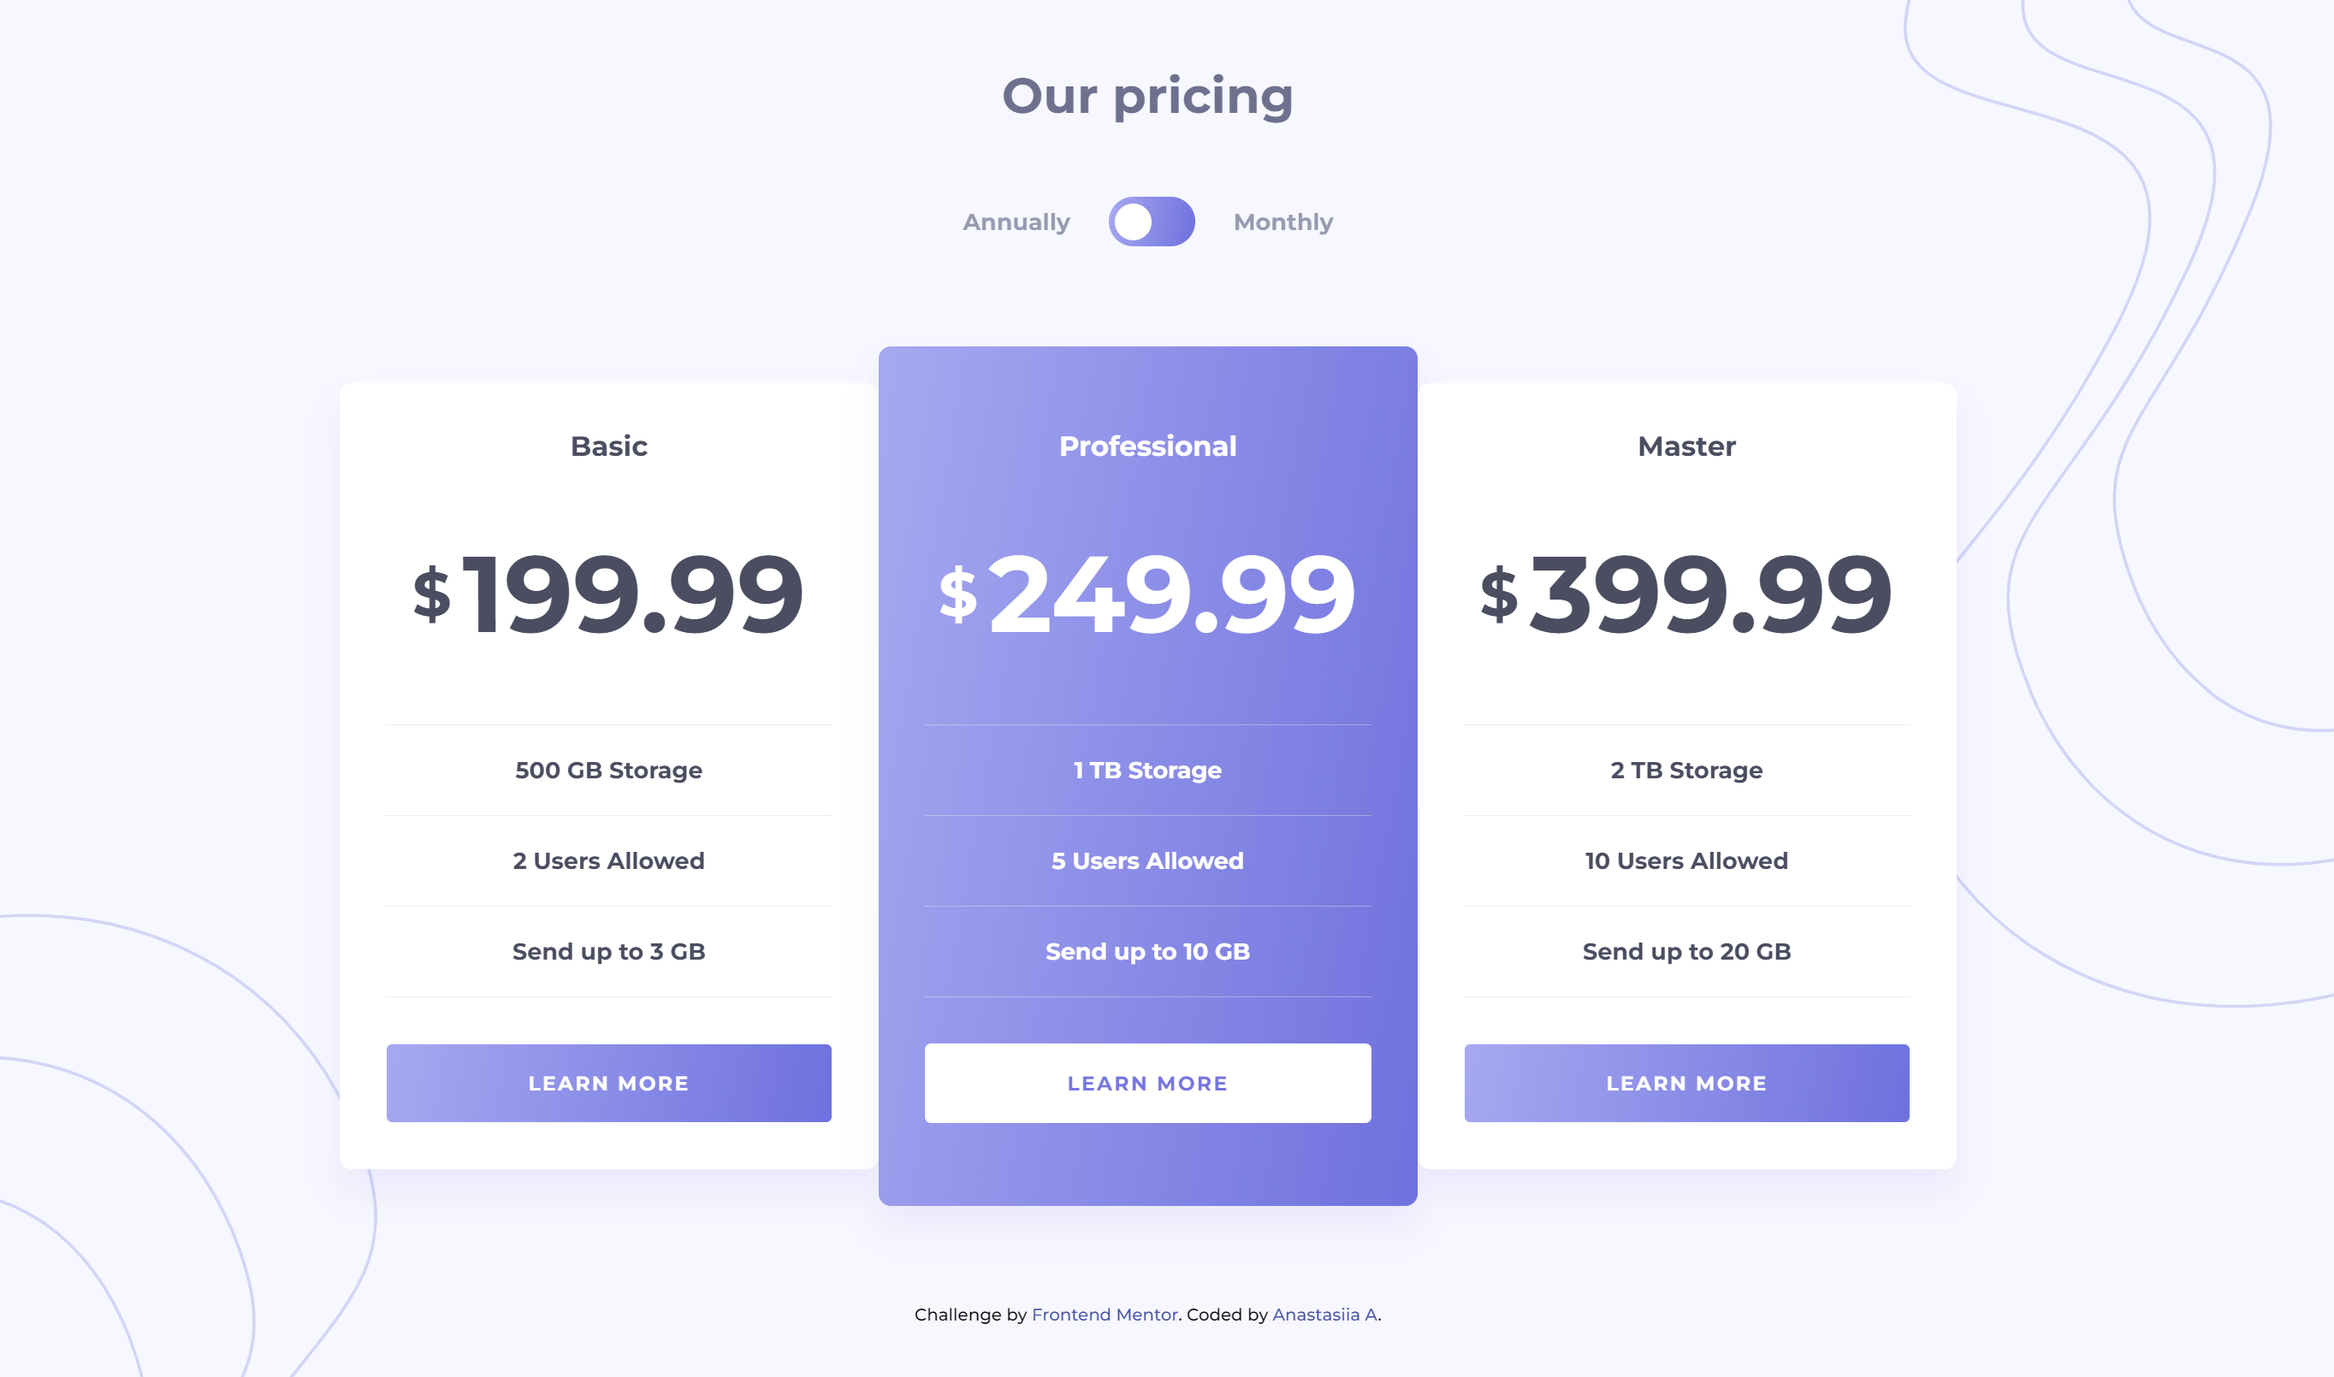
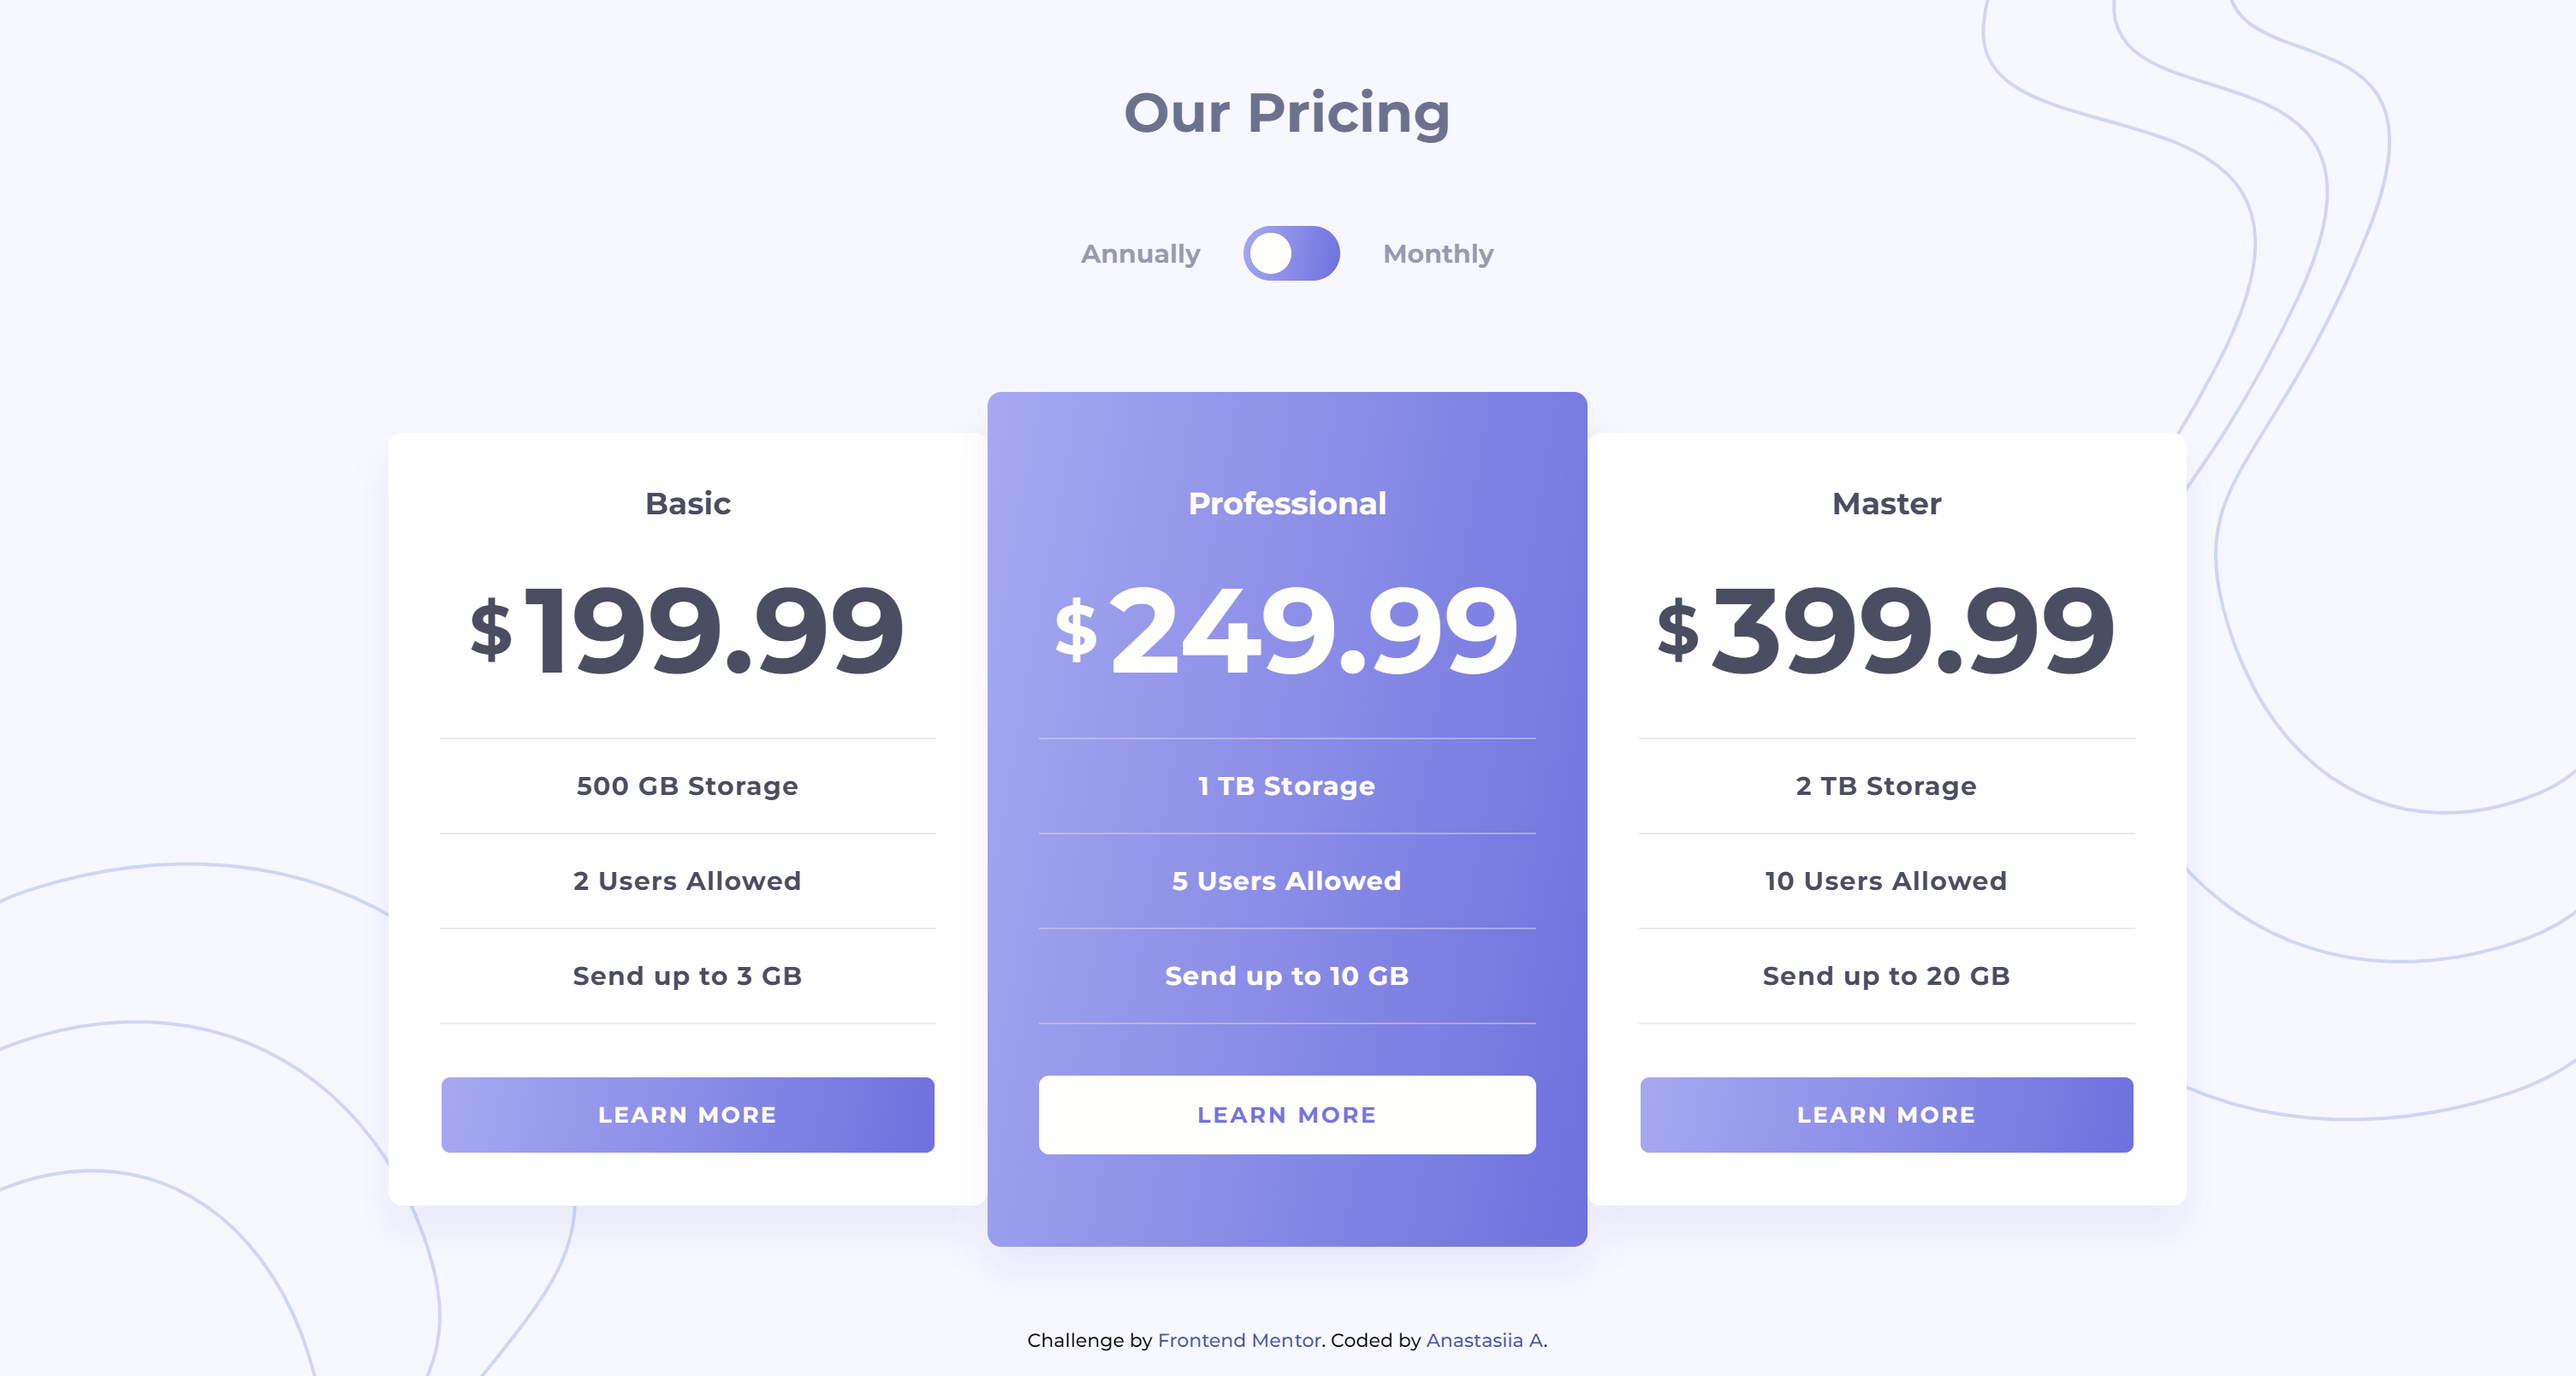
🗒 README updated

diff --git a/src/styles/main.css b/src/styles/main.css
@@ -58,11 +58,12 @@ ol, ul {
   font-size: 11px;
   text-align: center;
   font-weight: 400;
+  color: #4A4D60;
   margin-top: 3rem;
   padding-bottom: 0.5rem;
 }
 .attribution a {
-  color: hsl(228deg, 45%, 44%);
+  color: #7074E0;
 }
 
 body {
@@ -101,13 +102,13 @@ main {
 .toggle-wrapper .toggle__box {
   height: 32px;
   width: 56px;
-  background: linear-gradient(100deg, hsl(236deg, 72%, 79%), hsl(237deg, 63%, 64%));
+  background: linear-gradient(100deg, hsl(236, 72%, 79%), hsl(237, 63%, 64%));
   margin: 0 25px;
   border-radius: 16px;
   position: relative;
 }
 .toggle-wrapper .toggle__box:hover {
-  background: linear-gradient(100deg, hsla(236deg, 72%, 79%, 0.75), hsla(237deg, 63%, 64%, 0.75));
+  background: linear-gradient(100deg, hsla(236, 72%, 79%, 0.75), hsla(237, 63%, 64%, 0.75));
 }
 .toggle-wrapper .toggle__ball {
   height: 24px;
@@ -140,7 +141,7 @@ main {
   box-shadow: 0px 15px 20px rgba(108, 112, 222, 0.1);
 }
 .card.active {
-  background: linear-gradient(100deg, hsl(236deg, 72%, 79%), hsl(237deg, 63%, 64%));
+  background: linear-gradient(100deg, hsl(236, 72%, 79%), hsl(237, 63%, 64%));
   padding: 54px 30px;
   color: #FFFFFD;
 }
@@ -175,7 +176,7 @@ main {
   border-radius: 6px;
   cursor: pointer;
   color: #FFFFFD;
-  background: linear-gradient(100deg, hsl(236deg, 72%, 79%), hsl(237deg, 63%, 64%));
+  background: linear-gradient(100deg, hsl(236, 72%, 79%), hsl(237, 63%, 64%));
   border: 1px solid #FFFFFD;
   transition: all 0.3s ease-in-out;
 }
@@ -219,6 +220,12 @@ main {
 @media screen and (max-width: 450px) {
   .card {
     width: 320px;
+  }
+  .wave--top {
+    transform: scale(80%) translate(20%, -20%);
+  }
+  .wave--bottom {
+    transform: scale(80%) translate(-20%, 20%);
   }
 }
 /* < 320*/

diff --git a/src/styles/libs/_media.scss b/src/styles/libs/_media.scss
@@ -30,6 +30,16 @@
     .card {
         width: 320px;
     }
+
+    .wave {
+        &--top {
+            transform: scale(80%) translate(20%, -20%);
+        }
+    
+        &--bottom {
+            transform: scale(80%) translate(-20%, 20%);
+        }
+    }
 }
 
 /* < 320*/

diff --git a/src/styles/libs/_attribution.scss b/src/styles/libs/_attribution.scss
@@ -2,11 +2,12 @@
     font-size: 11px;
     text-align: center;
     font-weight: 400;
+    color: $dark;
 
     margin-top: 3rem;
     padding-bottom: 0.5rem;
 
     a {
-        color: hsl(228, 45%, 44%);
+        color: $violet;
     }
 }

diff --git a/README.md b/README.md
@@ -11,7 +11,7 @@ This is my solution to the [Pricing component with toggle challenge on Frontend 
 - [My process](#my-process)
   - [Built with](#built-with)
   - [What I learned](#what-i-learned)
-- [Thanks](#thanks-for-your-visit)
+- [Thanks](#thanks-for-your-visit-)
 
 ## Overview
 
@@ -40,8 +40,8 @@ Here is the result of my code:
 - Semantic HTML5 markup
 - CSS (Flexbox, CSS Grid, etc.)
 - [Sassy CSS](https://sass-lang.com/)
-- NPM 
-- [React](https://reactjs.org/) JS library
+- npm
+- [React.js](https://reactjs.org/)
 - [Vite.js](https://vitejs.dev/)
 
 ### What I learned
@@ -56,9 +56,11 @@ Having my index.html file look like that:
   <script type="module" src="/src/index.jsx"></script>
 </body>
 ```
-was quite unusual and exciting. And making these lines 
+was quite unusual and exciting. 
+
+And making these lines 
 ```js
-function App() {
+export default function App() {
   return (
     <main>
       <BgWaves />
